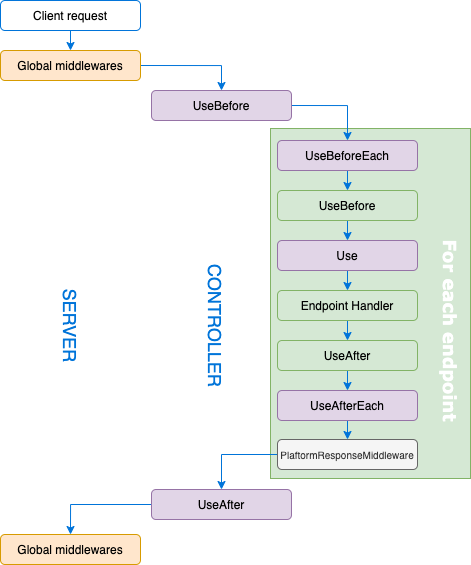
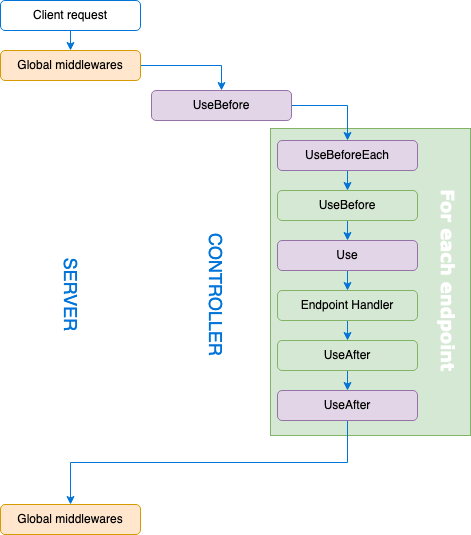
fix(common): Fix useAfter decorator
Closes: #1202

diff --git a/packages/platform-test-utils/src/tests/testMiddlewares.ts b/packages/platform-test-utils/src/tests/testMiddlewares.ts
@@ -1,0 +1,98 @@
+import "@tsed/ajv";
+import {Context, Controller, Get, Middleware, PlatformTest, Use, UseAfter, UseBefore} from "@tsed/common";
+import {expect} from "chai";
+import SuperTest from "supertest";
+import {PlatformTestOptions} from "../interfaces";
+
+@Middleware()
+class BeforeCustomMiddleware {
+  use(@Context() ctx: Context) {
+    ctx.set("stacks", ["UseBefore - Ctrl"]);
+  }
+}
+
+@Middleware()
+class BeforeEndpointCustomMiddleware {
+  use(@Context() ctx: Context) {
+    ctx.get("stacks").push("UseBefore - endpoint");
+  }
+}
+
+@Middleware()
+class AfterCustomMiddleware {
+  use(@Context() ctx: Context) {
+    ctx.get("stacks").push("UseAfter - Ctrl");
+  }
+}
+
+@Middleware()
+class AfterEndpointCustomMiddleware {
+  use(@Context() ctx: Context) {
+    ctx.get("stacks").push("UseAfter - endpoint");
+  }
+}
+
+@Middleware()
+class UseMiddleware {
+  use(@Context() ctx: Context) {
+    ctx.get("stacks").push("Use - Ctrl");
+  }
+}
+
+@Middleware()
+class UseEndpointMiddleware {
+  use(@Context() ctx: Context) {
+    ctx.get("stacks").push("Use - endpoint");
+  }
+}
+
+@Controller("/middlewares")
+@UseBefore(BeforeCustomMiddleware)
+@UseAfter(AfterCustomMiddleware)
+@Use(AfterCustomMiddleware)
+class TestMiddlewaresCtrl {
+  @Get("/scenario-1")
+  @UseBefore(BeforeEndpointCustomMiddleware)
+  @UseAfter(AfterEndpointCustomMiddleware)
+  @Use(UseEndpointMiddleware)
+  scenario1(@Context() context: Context) {
+    context.get("stacks").push("endpoint");
+
+    return {stacks: context.get("stacks")};
+  }
+}
+
+export function testMiddlewares(options: PlatformTestOptions) {
+  let request: SuperTest.SuperTest<SuperTest.Test>;
+
+  before(
+    PlatformTest.bootstrap(options.server, {
+      ...options,
+      mount: {
+        "/rest": [TestMiddlewaresCtrl]
+      }
+    })
+  );
+  before(() => {
+    request = SuperTest(PlatformTest.callback());
+  });
+  after(PlatformTest.reset);
+
+  describe("Scenario 1: GET /rest/middlewares/scenario-1", () => {
+    it("should call all middlewares", async () => {
+      const response = await request.get("/rest/middlewares/scenario-1").expect(200);
+
+      expect(response.body).to.deep.equal({
+        stacks: [
+          "UseBefore - Ctrl",
+          "UseAfter - Ctrl",
+          "UseBefore - endpoint",
+          "Use - endpoint",
+          "endpoint",
+          "UseAfter - endpoint",
+          "UseAfter - Ctrl"
+        ]
+      });
+    });
+  });
+}

diff --git a/packages/common/src/platform/builder/PlatformControllerBuilder.spec.ts b/packages/common/src/platform/builder/PlatformControllerBuilder.spec.ts
@@ -103,10 +103,7 @@ describe("PlatformControllerBuilder", () => {
 
     // THEN
     expect(result).to.be.instanceof(PlatformRouter);
-    // expect(router.use.callCount).to.deep.eq(3);
     expect(router.use).to.have.been.calledWithExactly(provider.middlewares.useBefore[0]); // controller
-
-    expect(router.use).to.have.been.calledWithExactly(provider.middlewares.useAfter[0]); // controller
 
     // ENDPOINT
     expect(router.get).to.have.been.calledWithExactly(
@@ -117,7 +114,8 @@ describe("PlatformControllerBuilder", () => {
       endpoint.beforeMiddlewares[0],
       endpoint.middlewares[0],
       endpoint,
-      endpoint.afterMiddlewares[0]
+      endpoint.afterMiddlewares[0],
+      provider.middlewares.useAfter[0]
     );
   });
 
@@ -143,10 +141,9 @@ describe("PlatformControllerBuilder", () => {
       endpoint.beforeMiddlewares[0],
       endpoint.middlewares[0],
       endpoint,
-      endpoint.afterMiddlewares[0]
+      endpoint.afterMiddlewares[0],
+      provider.middlewares.useAfter[0]
     );
-
-    expect(router.use.getCall(2)).to.have.been.calledWithExactly(provider.middlewares.useAfter[0]); // controller
   });
 
   it("should build controller without route and method", () => {
@@ -168,10 +165,9 @@ describe("PlatformControllerBuilder", () => {
       endpoint.beforeMiddlewares[0],
       endpoint.middlewares[0],
       endpoint,
-      endpoint.afterMiddlewares[0]
+      endpoint.afterMiddlewares[0],
+      provider.middlewares.useAfter[0]
     );
-
-    expect(router.use.getCall(2)).to.have.been.calledWithExactly(provider.middlewares.useAfter[0]); // controller
   });
 
   it("should build controller with a all endpoint and get endpoint", () => {

diff --git a/packages/common/src/platform/builder/PlatformControllerBuilder.ts b/packages/common/src/platform/builder/PlatformControllerBuilder.ts
@@ -32,7 +32,7 @@ export class PlatformControllerBuilder {
   public build(injector: InjectorService): PlatformRouterMethods {
     const {
       routerOptions,
-      middlewares: {useBefore, useAfter}
+      middlewares: {useBefore}
     } = this.provider;
 
     this.provider.setRouter(PlatformRouter.create(injector, routerOptions));
@@ -40,7 +40,6 @@ export class PlatformControllerBuilder {
     // Controller lifecycle
     this.buildMiddlewares(useBefore) // Controller before-middleware
       .buildEndpoints() // All endpoints and his middlewares
-      .buildMiddlewares(useAfter) // Controller after-middleware
       .buildChildrenCtrls(injector); // Children controllers
 
     return this.provider.getRouter();
@@ -84,7 +83,7 @@ export class PlatformControllerBuilder {
   private buildEndpoint(endpoint: EndpointMetadata) {
     const {beforeMiddlewares, middlewares: mldwrs, afterMiddlewares, operation} = endpoint;
     const {
-      middlewares: {use}
+      middlewares: {use, useAfter}
     } = this.provider;
 
     const router = this.provider.getRouter<PlatformRouter>();
@@ -102,6 +101,7 @@ export class PlatformControllerBuilder {
       .concat(mldwrs) // Endpoint middlewares
       .concat(endpoint) // Endpoint metadata
       .concat(afterMiddlewares) // Endpoint after-middlewares
+      .concat(useAfter) // Controller after middlewares (equivalent to afterEach)
       .filter((item: any) => !!item);
 
     // Add handlers to the router

diff --git a/packages/platform-test-utils/src/tests/index.ts b/packages/platform-test-utils/src/tests/index.ts
@@ -13,6 +13,7 @@ import {testHeaders} from "./testHeaders";
 import {testInheritanceController} from "./testInheritanceController";
 import {testLocals} from "./testLocals";
 import {testLocation} from "./testLocation";
+import {testMiddlewares} from "./testMiddlewares";
 import {testModule} from "./testModule";
 import {testMulter} from "./testMulter";
 import {testPathParams} from "./testPathParams";
@@ -31,6 +32,7 @@ export const specsContainer = new Map<string, (options: PlatformTestOptions) => 
 // HANDLERS AND MIDDLEWARES
 specsContainer.set("handlers", testHandlers);
 specsContainer.set("auth", testAuth);
+specsContainer.set("middlewares", testMiddlewares);
 
 // RESPONSES
 specsContainer.set("headers", testHeaders);

diff --git a/packages/platform-koa/test/platform-koa.spec.ts b/packages/platform-koa/test/platform-koa.spec.ts
@@ -15,6 +15,9 @@ describe("PlatformKoa integration", () => {
   describe("Children controllers", () => {
     utils.test("childrenControllers");
   });
+  describe("Middlewares", () => {
+    utils.test("middlewares");
+  });
   describe("Inheritance controllers", () => {
     utils.test("inheritanceController");
   });

diff --git a/packages/platform-express/test/platform-express.spec.ts b/packages/platform-express/test/platform-express.spec.ts
@@ -21,6 +21,9 @@ describe("PlatformExpress", () => {
   describe("Inheritance controllers", () => {
     utils.test("inheritanceController");
   });
+  describe("Middlewares", () => {
+    utils.test("middlewares");
+  });
   describe("Scope Request", () => {
     utils.test("scopeRequest");
   });
